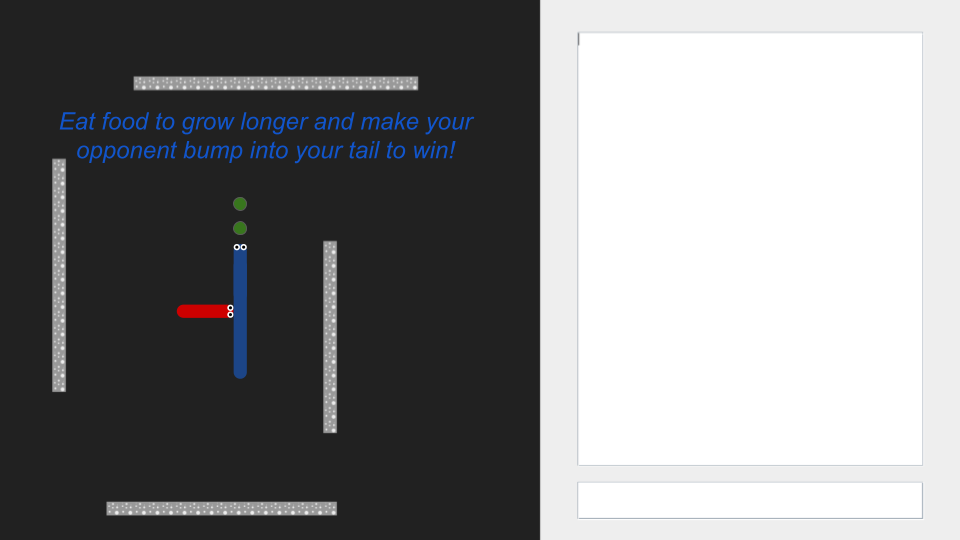
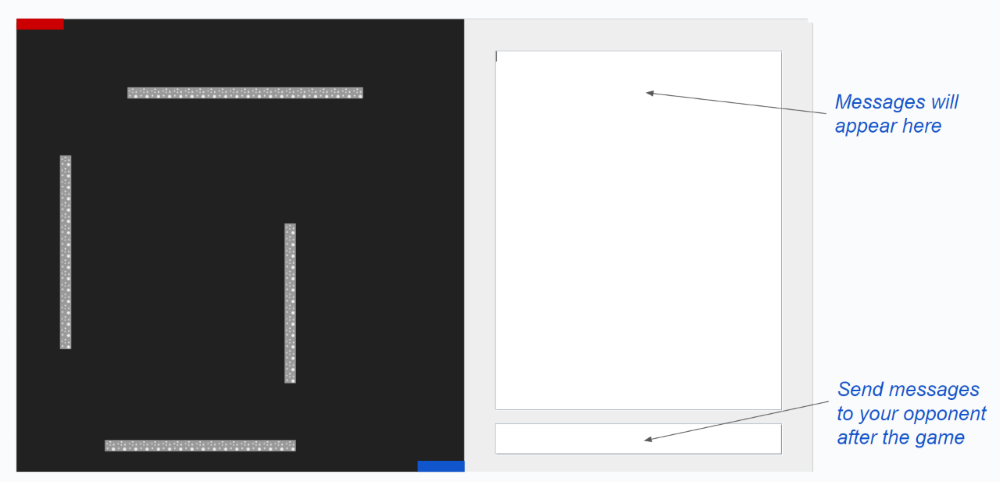
update images on help screen

diff --git a/helpPanel.java b/helpPanel.java
@@ -11,7 +11,7 @@ import javax.swing.JPanel;
 
 public class helpPanel extends JPanel implements ActionListener {
     // properties
-    BufferedImage[] help = new BufferedImage[4];
+    BufferedImage[] help = new BufferedImage[5];
     BufferedImage currentImage;
     int intCurr = 0;
     JButton prevButton = new JButton("<");
@@ -31,6 +31,7 @@ public class helpPanel extends JPanel implements ActionListener {
             help[1] = ImageIO.read(new File("help2.png"));
             help[2] = ImageIO.read(new File("help3.png"));
             help[3] = ImageIO.read(new File("help4.png"));
+            help[4] = ImageIO.read(new File("help5.png"));
             currentImage = help[intCurr]; // Set the initial image
         } catch (IOException e) {
             System.out.println("Unable to load image");
@@ -71,7 +72,7 @@ public class helpPanel extends JPanel implements ActionListener {
             // Enable prev button if it's not the first image
             prevButton.setEnabled(intCurr > 0);
             // Disable next button if it's the last image
-            nextButton.setEnabled(intCurr < 3);
+            nextButton.setEnabled(intCurr < 4);
         } else if (evt.getSource() == prevButton) {
             if (intCurr > 0) {
                 intCurr--;

diff --git a/snakeGame.java b/snakeGame.java
@@ -589,8 +589,8 @@ public class snakeGame implements ActionListener, KeyListener {
     public static void winGame(String strWinner){
         animationTimer.stop();
         moveTimer.stop();
-        chat.append("\nYour opponent has died");
-        chat.append("YOU ARE THE WINNER");
+        chat.append("\nYour opponent has died\n");
+        chat.append("YOU ARE THE WINNER\n");
     }
 
     // constructor
